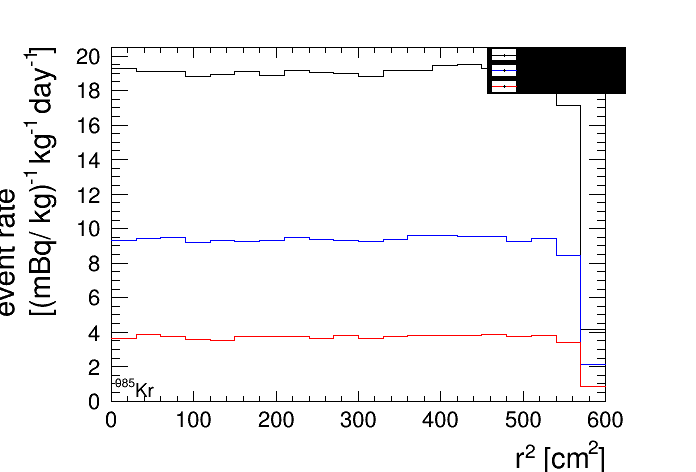
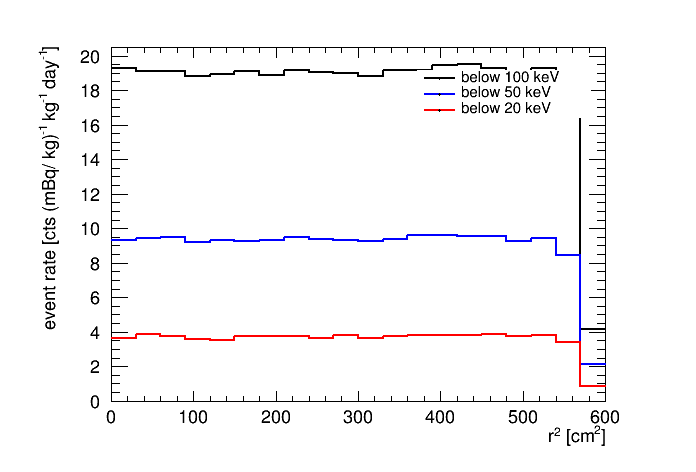
better plot method.

diff --git a/WeiPlotEnergy/LUXSimForDiffBetaDecayInXenon.C b/WeiPlotEnergy/LUXSimForDiffBetaDecayInXenon.C
@@ -78,13 +78,13 @@ bool inVolume (double r, double z, double rmin=0, double zmin=25, double rmax=0,
 int LUXSimForDiffBetaDecayInXenon(TString txtFileList = "test.txt", TString fOutName="test.root", TString fOutfigName="test", TString Particle=""){ 
 
   
-  int WhichStyle =1;
+  int WhichStyle =4;
   TStyle *lzStyle = new TStyle("lzStyle","LZ Style");
 
-  Int_t FontStyle = 22;
-  Float_t FontSizeLabel = 0.035;
-  Float_t FontSizeTitle = 0.05;
-  Float_t YOffsetTitle = 1.3;
+  Int_t FontStyle = 42;
+  Float_t FontSizeLabel = 0.04;
+  Float_t FontSizeTitle = 0.04;
+  Float_t YOffsetTitle = 1.4;
  
   switch(WhichStyle) {
   case 1:
@@ -168,7 +168,7 @@ int LUXSimForDiffBetaDecayInXenon(TString txtFileList = "test.txt", TString fOut
 
   // use bold lines and markers
   lzStyle->SetMarkerStyle(6);
-  lzStyle->SetHistLineWidth( Width_t(1.5) );
+  lzStyle->SetHistLineWidth( Width_t(2.5) );
   lzStyle->SetLineStyleString(2, "[12 12]"); // postscript dashes
   
   // get rid of X error bars and y error bar caps
@@ -280,44 +280,55 @@ int LUXSimForDiffBetaDecayInXenon(TString txtFileList = "test.txt", TString fOut
   outFile->cd();
 
 
-  TH1F* he_center              = new TH1F("he_center", ";Energy [keV];#splitline{event rate per activity mass }{[(mBq/ kg)^{-1} kg^{-1} day^{-1} keV^{-1}]}", 100, 0, 100);
-  TH1F* he_fd               = new TH1F("he_fd", ";Energy [keV];#splitline{event rate per activity mass }{[(mBq/ kg)^{-1} kg^{-1} day^{-1} keV^{-1}]}", 100, 0, 100);
-  TH1F* he_skin               = new TH1F("he_skin", ";Energy [keV];#splitline{event rate per activity mass }{[(mBq/ kg)^{-1} kg^{-1} day^{-1} keV^{-1}]}", 100, 0, 100);
+  TH1F* he_center              = new TH1F("he_center", ";Energy [keV];event rate [cts (mBq/ kg)^{-1} kg^{-1} day^{-1} keV^{-1}]", 100, 0, 100);
+  TH1F* he_fd               = new TH1F("he_fd", ";Energy [keV];event rate [cts (mBq/ kg)^{-1} kg^{-1} day^{-1} keV^{-1}]", 100, 0, 100);
+  TH1F* he_skin               = new TH1F("he_skin", ";Energy [keV];event rate [cts (mBq/ kg)^{-1} kg^{-1} day^{-1} keV^{-1}]", 100, 0, 100);
 
-  TH1F* hsc_center              = new TH1F("hsc_center", ";Energy [keV];#splitline{event rate per activity mass }{[(mBq/ kg)^{-1} kg^{-1} day^{-1} keV^{-1}]}", 100, 0, 100);
-  TH1F* hsc_fd               = new TH1F("hsc_fd", ";Energy [keV];#splitline{event rate per activity mass }{[(mBq/ kg)^{-1} kg^{-1} day^{-1} keV^{-1}]}", 100, 0, 100);
-  TH1F* hsc_skin               = new TH1F("hsc_skin", ";Energy [keV];#splitline{event rate per activity mass }{[(mBq/ kg)^{-1} kg^{-1} day^{-1} keV^{-1}]}", 100, 0, 100);
+  TH1F* hsc_center              = new TH1F("hsc_center", ";Energy [keV];event rate [cts (mBq/ kg)^{-1} kg^{-1} day^{-1} keV^{-1}]", 100, 0, 100);
+  TH1F* hsc_fd               = new TH1F("hsc_fd", ";Energy [keV];event rate [cts (mBq/ kg)^{-1} kg^{-1} day^{-1} keV^{-1}]", 100, 0, 100);
+  TH1F* hsc_skin               = new TH1F("hsc_skin", ";Energy [keV];event rate [cts (mBq/ kg)^{-1} kg^{-1} day^{-1} keV^{-1}]", 100, 0, 100);
 
-  TH1F* hgxsc_center              = new TH1F("hgxsc_center", ";Energy [keV];#splitline{event rate per activity mass }{[(mBq/ kg)^{-1} kg^{-1} day^{-1} keV^{-1}]}", 100, 0, 100);
-  TH1F* hgxsc_fd               = new TH1F("hgxsc_fd", ";Energy [keV];#splitline{event rate per activity mass }{[(mBq/ kg)^{-1} kg^{-1} day^{-1} keV^{-1}]}", 100, 0, 100);
-  TH1F* hgxsc_skin               = new TH1F("hgxsc_skin", ";Energy [keV];#splitline{event rate per activity mass }{[(mBq/ kg)^{-1} kg^{-1} day^{-1} keV^{-1}]}", 100, 0, 100);
+  TH1F* hgxsc_center              = new TH1F("hgxsc_center", ";Energy [keV];event rate [cts (mBq/ kg)^{-1} kg^{-1} day^{-1} keV^{-1}]", 100, 0, 100);
+  TH1F* hgxsc_fd               = new TH1F("hgxsc_fd", ";Energy [keV];event rate [cts (mBq/ kg)^{-1} kg^{-1} day^{-1} keV^{-1}]", 100, 0, 100);
+  TH1F* hgxsc_skin               = new TH1F("hgxsc_skin", ";Energy [keV];event rate [cts (mBq/ kg)^{-1} kg^{-1} day^{-1} keV^{-1}]", 100, 0, 100);
 
-  TH1F* hall_center              = new TH1F("hall_center", ";Energy [keV];#splitline{event rate per activity mass }{[(mBq/ kg)^{-1} kg^{-1} day^{-1} keV^{-1}]}", 100, 0, 100);
-  TH1F* hall_fd               = new TH1F("hall_fd", ";Energy [keV];#splitline{event rate per activity mass }{[(mBq/ kg)^{-1} kg^{-1} day^{-1} keV^{-1}]}", 100, 0, 100);
-  TH1F* hall_skin               = new TH1F("hall_skin", ";Energy [keV];#splitline{event rate per activity mass }{[(mBq/ kg)^{-1} kg^{-1} day^{-1} keV^{-1}]}", 100, 0, 100);
+  TH1F* hall_center              = new TH1F("hall_center", ";Energy [keV];event rate [cts (mBq/ kg)^{-1} kg^{-1} day^{-1} keV^{-1}]", 100, 0, 100);
+  TH1F* hall_fd               = new TH1F("hall_fd", ";Energy [keV];event rate [cts (mBq/ kg)^{-1} kg^{-1} day^{-1} keV^{-1}]", 100, 0, 100);
+  TH1F* hall_skin               = new TH1F("hall_skin", ";Energy [keV];event rate [cts (mBq/ kg)^{-1} kg^{-1} day^{-1} keV^{-1}]", 100, 0, 100);
 
 
   TH2F* he_center_xy               = new TH2F("he_center_xy ", "; x [cm]; y [cm]", 100, -30, 30, 100, -30, 30);
   TH2F* hsc_center_xy               = new TH2F("hsc_center_xy ", "; x [cm]; y [cm]", 100, -30, 30, 100, 30, 30);
   TH2F* hgxsc_center_xy               = new TH2F("hgxsc_center_xy ", "; x [cm]; y [cm]", 100, -30, 30, 100, -30, 30);
 
-  TH1F* hr100               = new TH1F("hr100", ";r^{2} [cm^{2}]; #splitline{event rate}{[(mBq/ kg)^{-1} kg^{-1} day^{-1}]}", 600, 0, 600);
-  TH1F* hr50               = new TH1F("hr50", ";r^{2} [cm^{2}]; #splitline{event rate}{[(mBq/ kg)^{-1} kg^{-1} day^{-1}]}", 600, 0, 600);
-  TH1F* hr20               = new TH1F("hr20", ";r^{2} [cm^{2}]; #splitline{event rate}{[(mBq/ kg)^{-1} kg^{-1} day^{-1}]}", 600, 0, 600);
+  TH1F* hr100               = new TH1F("hr100", ";r^{2} [cm^{2}]; event rate [cts (mBq/ kg)^{-1} kg^{-1} day^{-1}]", 600, 0, 600);
+  TH1F* hr50               = new TH1F("hr50", ";r^{2} [cm^{2}]; event rate [cts (mBq/ kg)^{-1} kg^{-1} day^{-1}]", 600, 0, 600);
+  TH1F* hr20               = new TH1F("hr20", ";r^{2} [cm^{2}]; event rate [cts (mBq/ kg)^{-1} kg^{-1} day^{-1}]", 600, 0, 600);
 
 
 
 //-----Wei important, long run change number of sims
   double numOfSim= double (ttree->GetEntries());
-//  double numOfSim= 10000;
+//  double numOfSim= 1000;
 
   for (int ii=0; ii<numOfSim; ii++){
     ttree->GetEntry(ii);
-    if (Particle[2] != e.cPrimaryParName[2]) {cout<<"error on primary particle: you assign: "<<Particle.Data() <<"    simulation has: "<<e.cPrimaryParName<<endl;}
-    if (Particle[3] != e.cPrimaryParName[3]) {cout<<"error on primary particle: you assign: "<<Particle.Data() <<"    simulation has: "<<e.cPrimaryParName<<endl;}
-    if (Particle[4] != e.cPrimaryParName[4]) {cout<<"error on primary particle: you assign: "<<Particle.Data() <<"    simulation has: "<<e.cPrimaryParName<<endl;}
-    if (Particle[6] != e.cPrimaryParName[0]) {cout<<"error on primary particle: you assign: "<<Particle.Data() <<"    simulation has: "<<e.cPrimaryParName<<endl;}
-    if (Particle[7] != e.cPrimaryParName[1]) {cout<<"error on primary particle: you assign: "<<Particle.Data() <<"    simulation has: "<<e.cPrimaryParName<<endl;}
+    bool wrongParticleName1=0; 
+    if (Particle[2] != e.cPrimaryParName[2]) {wrongParticleName1=1;}
+    if (Particle[3] != e.cPrimaryParName[3]) {wrongParticleName1=1;}
+    if (Particle[4] != e.cPrimaryParName[4]) {wrongParticleName1=1;}
+    if (Particle[6] != e.cPrimaryParName[0]) {wrongParticleName1=1;}
+    if (Particle[7] != e.cPrimaryParName[1]) {wrongParticleName1=1;}
+    bool wrongParticleName2=0; 
+    if (Particle[2] != e.cPrimaryParName[2]) {wrongParticleName2=1;}
+    if (Particle[3] != e.cPrimaryParName[3]) {wrongParticleName2=1;}
+    if (Particle[5] != e.cPrimaryParName[0]) {wrongParticleName2=1;}
+    if (Particle[6] != e.cPrimaryParName[1]) {wrongParticleName2=1;}
+    bool wrongParticleName3=0; 
+    if (Particle[2] != e.cPrimaryParName[1]) {wrongParticleName3=1;}
+    if (Particle[4] != e.cPrimaryParName[0]) {wrongParticleName3=1;}
+
+    if (wrongParticleName1 && wrongParticleName2 && wrongParticleName3) {cout<<"error on primary particle: you assign: "<<Particle.Data() <<"    simulation has: "<<e.cPrimaryParName<<endl;}
     // find single scatter above cathode. and double scatter with one energy deposit site above cathode
     //
     //clear value from previous loop.
@@ -410,13 +421,13 @@ int LUXSimForDiffBetaDecayInXenon(TString txtFileList = "test.txt", TString fOut
     if ( inVolume(rAboveCat, ZAboveCat, r1min, z1min, r1max, z1max) && (!gX) && (!gX2) && (sC) ) {he_fd->Fill(EAboveCat);}
     if ( inVolume(rAboveCat, ZAboveCat, r2min, z2min, r2max, z2max) && (!gX) && (!gX2) && (sC) ) {he_skin->Fill(EAboveCat);}
 
-    if ( inVolume(rAboveCat, ZAboveCat, r0min, z0min, r0max, z0max) && (sC) ) {hsc_center->Fill(EAboveCat);hsc_center_xy->Fill(XAboveCat, YAboveCat);}
-    if ( inVolume(rAboveCat, ZAboveCat, r1min, z1min, r1max, z1max) && (sC) ) {hsc_fd->Fill(EAboveCat);}
-    if ( inVolume(rAboveCat, ZAboveCat, r2min, z2min, r2max, z2max) && (sC) ) {hsc_skin->Fill(EAboveCat);}
+    if ( inVolume(rAboveCat, ZAboveCat, r0min, z0min, r0max, z0max) && (!gX2) && (sC) ) {hsc_center->Fill(EAboveCat);hsc_center_xy->Fill(XAboveCat, YAboveCat);}
+    if ( inVolume(rAboveCat, ZAboveCat, r1min, z1min, r1max, z1max) && (!gX2) && (sC) ) {hsc_fd->Fill(EAboveCat);}
+    if ( inVolume(rAboveCat, ZAboveCat, r2min, z2min, r2max, z2max) && (!gX2) && (sC) ) {hsc_skin->Fill(EAboveCat);}
 
-    if ( inVolume(rAboveCat, ZAboveCat, r0min, z0min, r0max, z0max) && (!gX2) && (sC) ) {hgxsc_center->Fill(EAboveCat);hgxsc_center_xy->Fill(XAboveCat, YAboveCat);}
-    if ( inVolume(rAboveCat, ZAboveCat, r1min, z1min, r1max, z1max) && (!gX2) && (sC) ) {hgxsc_fd->Fill(EAboveCat);}
-    if ( inVolume(rAboveCat, ZAboveCat, r2min, z2min, r2max, z2max) && (!gX2) && (sC) ) {hgxsc_skin->Fill(EAboveCat);}
+    if ( inVolume(rAboveCat, ZAboveCat, r0min, z0min, r0max, z0max) && (gX2) && (sC) ) {hgxsc_center->Fill(EAboveCat);hgxsc_center_xy->Fill(XAboveCat, YAboveCat);}
+    if ( inVolume(rAboveCat, ZAboveCat, r1min, z1min, r1max, z1max) && (gX2) && (sC) ) {hgxsc_fd->Fill(EAboveCat);}
+    if ( inVolume(rAboveCat, ZAboveCat, r2min, z2min, r2max, z2max) && (gX2) && (sC) ) {hgxsc_skin->Fill(EAboveCat);}
 
     if ( inVolume(rAboveCat, ZAboveCat, 0., z2min, 25., z2max) && (sC) && (EAboveCat<100.)) {hr100->Fill(XAboveCat*XAboveCat + YAboveCat* YAboveCat);}
     if ( inVolume(rAboveCat, ZAboveCat, 0., z2min, 25., z2max) && (sC) && (EAboveCat<50.)) {hr50->Fill(XAboveCat*XAboveCat + YAboveCat* YAboveCat);}
@@ -538,18 +549,18 @@ int LUXSimForDiffBetaDecayInXenon(TString txtFileList = "test.txt", TString fOut
   //-----start drawing
 
 
-  TCanvas* c1 = new TCanvas("c1", ";Energy [keV];#splitline{event rate per activity mass }{[(mBq/ kg)^{-1} kg^{-1} day^{-1} keV^{-1}]}");
+  TCanvas* c1 = new TCanvas("c1", ";Energy [keV];event rate [cts (mBq/ kg)^{-1} kg^{-1} day^{-1} keV^{-1}]");
   c1->Draw();
 
 
-  TLegend* tl = new TLegend(0.7,0.8,0.9,0.9);
+  TLegend* tl = new TLegend(0.6,0.75,0.85,0.85);
   tl->AddEntry(hsc_center, "center");
   tl->AddEntry(hsc_fd, "active volume");
   TString label= TString::Format("skin");// * %d",int(skinScale));
   if (drawSkin) {tl->AddEntry(hsc_skin, label.Data());}
   double hmin=0;
 //  hmin=-0.2*(hsc_center->GetMaximum() - hsc_center->GetMinimum() )+ hsc_center->GetMinimum();
-  double hmax=1.05*(hsc_skin->GetMaximum() - hsc_center->GetMinimum() )+ hsc_center->GetMinimum();
+  double hmax=1.3*(hsc_skin->GetMaximum() - hsc_center->GetMinimum() )+ hsc_center->GetMinimum();
   hsc_center->GetYaxis()->SetRangeUser(hmin, hmax);
 
   hsc_center->Draw();
@@ -559,6 +570,10 @@ int LUXSimForDiffBetaDecayInXenon(TString txtFileList = "test.txt", TString fOut
     hsc_skin->Scale(1./skinScale); //further scale down to plot on the same graph.
     hsc_skin->Draw("same");
   }
+  tl->SetTextSize(0.035);
+  tl->SetFillColor(kWhite);
+  tl->SetLineColor(kBlack);
+  tl->SetTextColor(kBlack);
   tl->Draw("same");
 
   TString tcontent;
@@ -577,10 +592,10 @@ int LUXSimForDiffBetaDecayInXenon(TString txtFileList = "test.txt", TString fOut
   tt1->Draw("same");
   }
   tcontent= TString::Format("%s", Particle.Data());
-  TLatex* ttp = new TLatex(100*0.05, 0.90*(hmax - hmin )+ hmin, tcontent.Data());
+  TLatex* ttp = new TLatex(100*0.05, 0.85*(hmax - hmin )+ hmin, tcontent.Data());
   ttp->SetTextColor(kBlack);   
   ttp->SetTextFont(43);
-  ttp->SetTextSize(20);
+  ttp->SetTextSize(30);
   ttp->Draw("same");
 
   cout<<hmin<<"  "<<hmax<<endl;
@@ -592,13 +607,13 @@ int LUXSimForDiffBetaDecayInXenon(TString txtFileList = "test.txt", TString fOut
   img->WriteImage(figname.Data());
   std::cout << figname.Data()<<std::endl;
 
-  TCanvas* c2 = new TCanvas("c2", ";r^{2} [cm^{2}]; #splitline{event rate}{[(mBq/ kg)^{-1} kg^{-1} day^{-1}]}");
+  TCanvas* c2 = new TCanvas("c2", ";r^{2} [cm^{2}]; event rate [cts (mBq/ kg)^{-1} kg^{-1} day^{-1}]");
   c2->Draw();
   c2->cd();
   hmin=0;
 //  hmin=-0.2*(hsc_center->GetMaximum() - hsc_center->GetMinimum() )+ hsc_center->GetMinimum();
-  hmax=1.05*(hr100->GetMaximum() - hr100->GetMinimum() )+ hr100->GetMinimum();
-
+  hmax=1.3*(hr100->GetMaximum() - hr100->GetMinimum() )+ hr100->GetMinimum();
+  hr100->GetYaxis()->SetRangeUser(hmin, hmax);
   hr100->Rebin(30);
   hr100->Scale(1./30);
   hr100->Draw();
@@ -608,11 +623,21 @@ int LUXSimForDiffBetaDecayInXenon(TString txtFileList = "test.txt", TString fOut
   hr20->Rebin(30);
   hr20->Scale(1./30);
   hr20->Draw("same");
-  ttp->Draw("same");
-  TLegend* tl2 = new TLegend(0.7,0.8,0.9,0.9);
+
+  tcontent= TString::Format("%s", Particle.Data());
+  TLatex* ttp2 = new TLatex(100*0.05, 0.85*(hmax - hmin )+ hmin, tcontent.Data());
+  ttp2->SetTextColor(kBlack);   
+  ttp2->SetTextFont(43);
+  ttp2->SetTextSize(30);
+  ttp2->Draw("same");
+  TLegend* tl2 = new TLegend(0.6,0.75,0.85,0.85);
   tl2->AddEntry(hr100, "below 100 keV");
   tl2->AddEntry(hr50, "below 50 keV");
   tl2->AddEntry(hr20, "below 20 keV");
+  tl2->SetTextSize(0.035);
+  tl2->SetFillColor(kWhite);
+  tl2->SetLineColor(kBlack);
+  tl2->SetTextColor(kBlack);
   tl2->Draw("same");
 
   TImage *img2 = TImage::Create();
